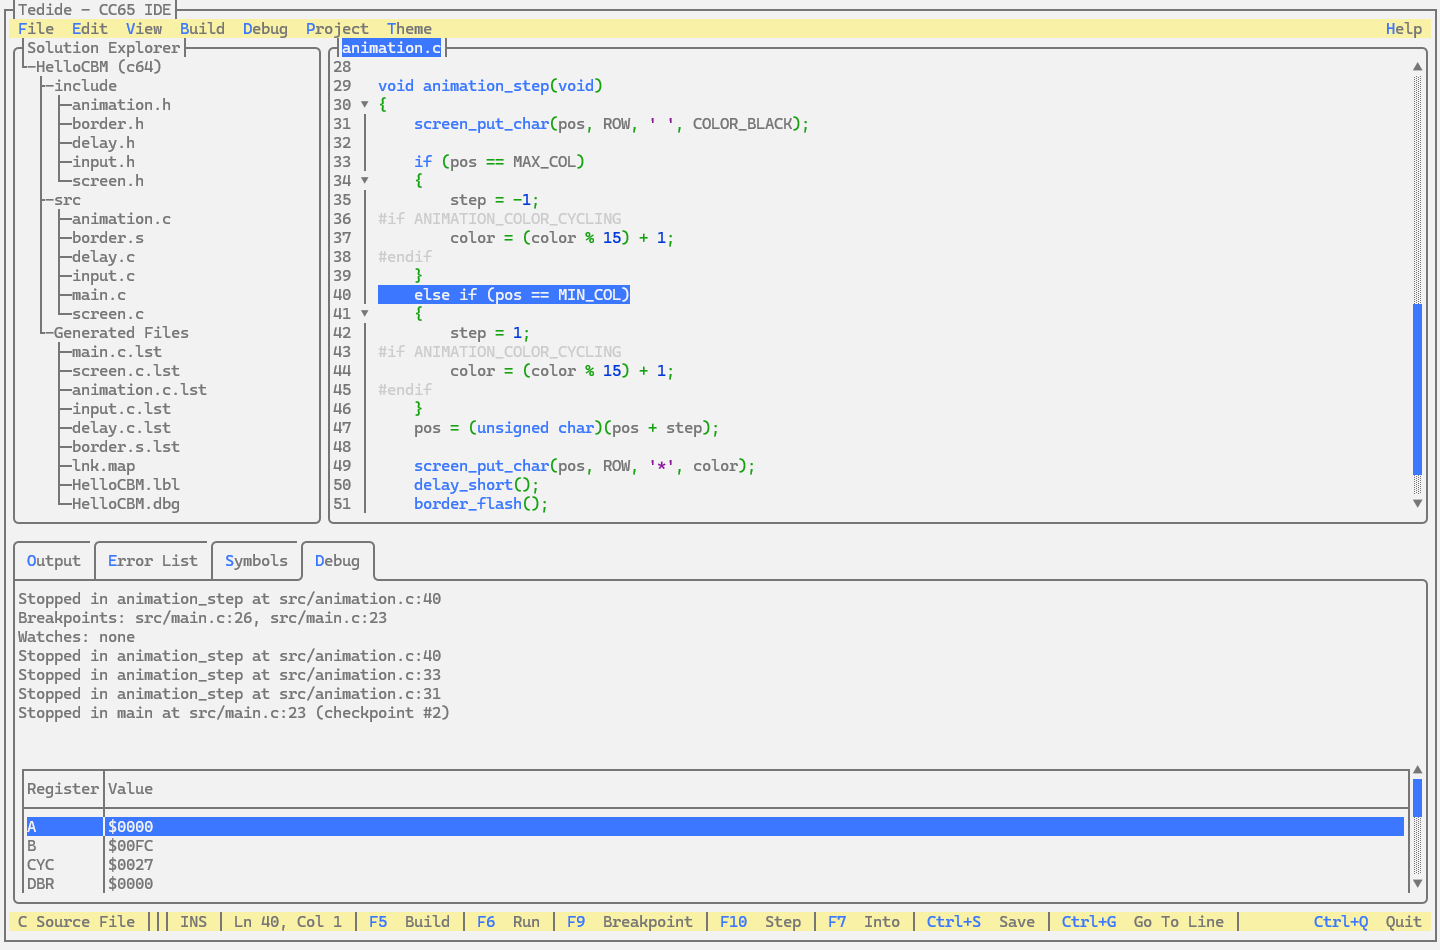
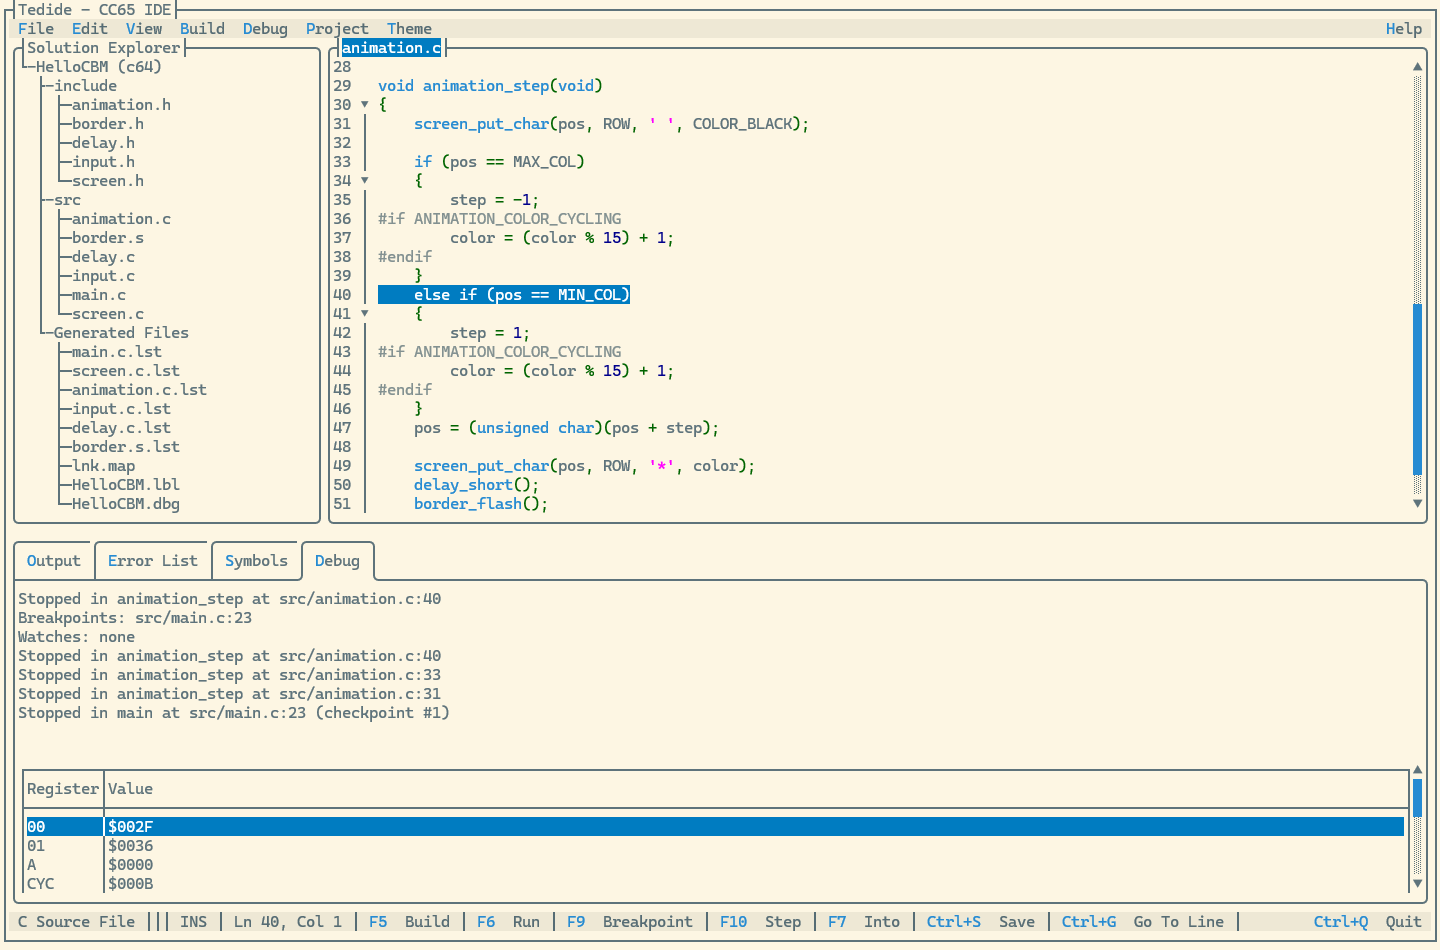
Draw themes in true color inside Windows Terminal; retake README screenshot
Terminal.Gui 2.4.17 treats Windows Terminal as a legacy console and forces
16-color mode during Init, so every theme was quantized to WT's 16 standard
colors (Solarized Light's cream page drawn as plain gray). Both apps now
clear Force16Colors after Init when WT_SESSION is set and the driver
supports true color. README screenshot retaken in true color.

diff --git a/src/Tedide.Theming/TerminalColors.cs b/src/Tedide.Theming/TerminalColors.cs
@@ -1,0 +1,25 @@
+using Terminal.Gui.Drivers;
+
+namespace Tedide.Theming;
+
+/// <summary>
+/// Turns full 24-bit color back on inside Windows Terminal. Terminal.Gui 2.4.17 detects Windows
+/// Terminal as a legacy console (OutputBase.IsLegacyConsole) and forces 16-color mode during
+/// Application.Init - even though it reports SupportsTrueColor - so every theme was drawn in
+/// Windows Terminal's 16 standard colors instead of its own (Solarized Light's cream page became
+/// plain gray, its beige menus bright yellow, and ThemeSwitcher's contrast adjustments were lost
+/// in the rounding). Only done when WT_SESSION is set - Windows Terminal sets it for every process
+/// it hosts - since a genuine old conhost window may really not handle 24-bit color.
+/// </summary>
+public static class TerminalColors
+{
+    /// <summary>Call right after Application.Init.</summary>
+    public static void UseTrueColorInWindowsTerminal(IDriver? driver)
+    {
+        if (driver is not null && ShouldUseTrueColor(driver.Force16Colors, driver.SupportsTrueColor, Environment.GetEnvironmentVariable("WT_SESSION")))
+            driver.Force16Colors = false;
+    }
+
+    internal static bool ShouldUseTrueColor(bool force16Colors, bool supportsTrueColor, string? wtSession) =>
+        force16Colors && supportsTrueColor && !string.IsNullOrEmpty(wtSession);
+}

diff --git a/tests/Tedide.App.Tests/TerminalColorsTests.cs b/tests/Tedide.App.Tests/TerminalColorsTests.cs
@@ -1,0 +1,27 @@
+using Tedide.Theming;
+
+namespace Tedide.App.Tests;
+
+/// <summary>
+/// Terminal.Gui forces 16-color mode inside Windows Terminal; TerminalColors undoes that only
+/// where it's safe to.
+/// </summary>
+public class TerminalColorsTests
+{
+    [Theory]
+    [InlineData(true, true, "a-session-guid", true)]    // Windows Terminal: back to 24-bit
+    [InlineData(true, true, null, false)]               // not Windows Terminal: leave it alone
+    [InlineData(true, true, "", false)]
+    [InlineData(true, false, "a-session-guid", false)]  // driver can't do true color anyway
+    [InlineData(false, true, "a-session-guid", false)]  // already true color
+    public void ShouldUseTrueColor_OnlyInWindowsTerminal(bool force16, bool supportsTrueColor, string? wtSession, bool expected)
+    {
+        Assert.Equal(expected, TerminalColors.ShouldUseTrueColor(force16, supportsTrueColor, wtSession));
+    }
+
+    [Fact]
+    public void UseTrueColorInWindowsTerminal_IgnoresANullDriver()
+    {
+        TerminalColors.UseTrueColorInWindowsTerminal(null);
+    }
+}

diff --git a/src/Tedide.DocViewer/Program.cs b/src/Tedide.DocViewer/Program.cs
@@ -43,6 +43,7 @@ catch (Exception ex) when (ex is FileNotFoundException or Microsoft.Data.Sqlite.
 using var _ = database;
 
 Application.Init();
+TerminalColors.UseTrueColorInWindowsTerminal(Application.Driver);
 try
 {
     // The theme still applies if it can't be saved; it just isn't remembered - see ThemeSwitcher.SaveFailed.

diff --git a/src/Tedide.App/Program.cs b/src/Tedide.App/Program.cs
@@ -23,6 +23,7 @@ AppDomain.CurrentDomain.UnhandledException += (_, e) =>
 Log.Information("Tedide starting up");
 
 Application.Init();
+TerminalColors.UseTrueColorInWindowsTerminal(Application.Driver);
 try
 {
     Cc65AssemblyHighlighting.Register();
